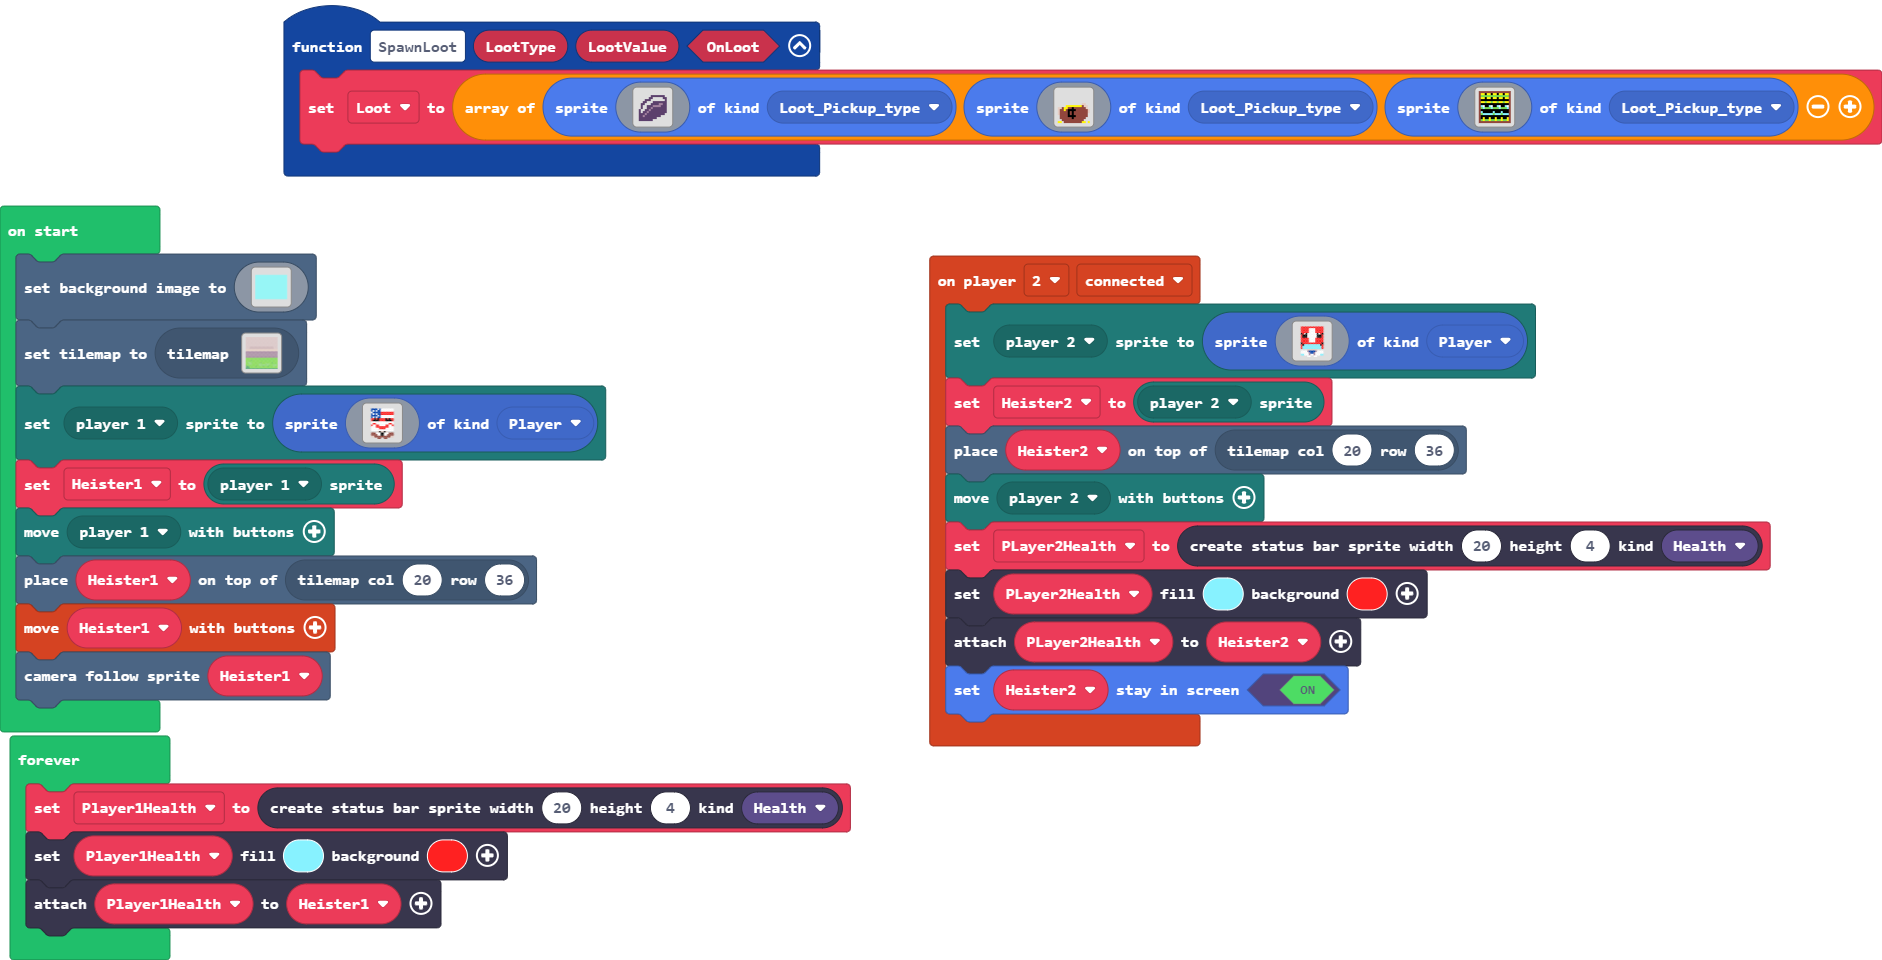
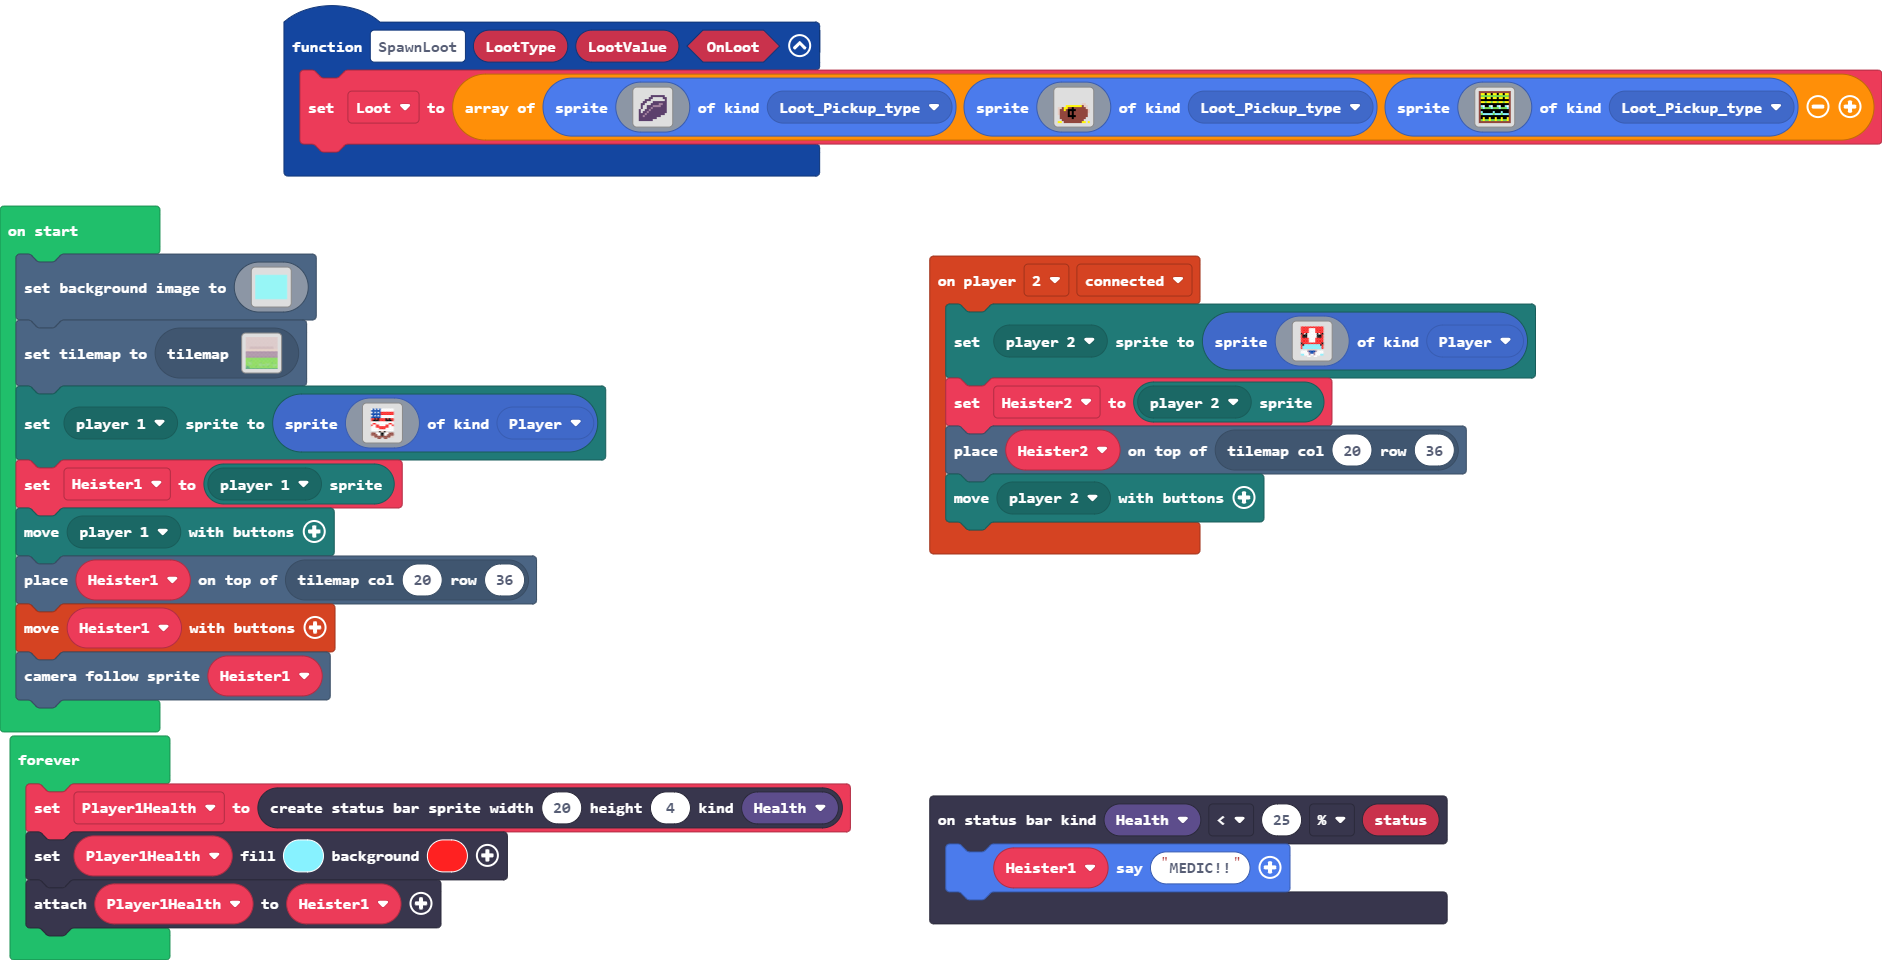
Update main.blocks, main.ts, images.g.jres, images.g.ts

Changed region(s): [[0.4931, 0.5312, 0.9554, 0.7812], [0.4931, 0.8125, 0.7705, 0.9688]]

diff --git a/main.ts b/main.ts
@@ -4,24 +4,23 @@ namespace SpriteKind {
 function SpawnLoot (LootType: string, LootValue: number, OnLoot: boolean) {
     Loot = [sprites.create(assets.image`Money_Bag`, SpriteKind.Loot_Pickup_type), sprites.create(assets.image`Bag_of_GOLD`, SpriteKind.Loot_Pickup_type), sprites.create(assets.image`Jewlery_Box`, SpriteKind.Loot_Pickup_type)]
 }
+statusbars.onStatusReached(StatusBarKind.Health, statusbars.StatusComparison.LT, statusbars.ComparisonType.Percentage, 25, function (status) {
+    Heister1.sayText("MEDIC!!")
+})
 controller.player2.onEvent(ControllerEvent.Connected, function () {
-    mp.setPlayerSprite(mp.playerSelector(mp.PlayerNumber.Two), sprites.create(assets.image`MEDIC`, SpriteKind.Player))
+    mp.setPlayerSprite(mp.playerSelector(mp.PlayerNumber.Two), sprites.create(assets.image`Luxembourg`, SpriteKind.Player))
     Heister2 = mp.getPlayerSprite(mp.playerSelector(mp.PlayerNumber.Two))
     tiles.placeOnTile(Heister2, tiles.getTileLocation(20, 36))
     mp.moveWithButtons(mp.playerSelector(mp.PlayerNumber.Two))
-    PLayer2Health = statusbars.create(20, 4, StatusBarKind.Health)
-    PLayer2Health.setColor(9, 2)
-    PLayer2Health.attachToSprite(Heister2)
-    Heister2.setStayInScreen(true)
 })
 let Player1Health: StatusBarSprite = null
-let PLayer2Health: StatusBarSprite = null
 let Heister2: Sprite = null
 let Loot: Sprite[] = []
+let Heister1: Sprite = null
 scene.setBackgroundImage(assets.image`sky`)
 tiles.setCurrentTilemap(tilemap`Prototype_bank_entrance`)
 mp.setPlayerSprite(mp.playerSelector(mp.PlayerNumber.One), sprites.create(assets.image`Austin`, SpriteKind.Player))
-let Heister1 = mp.getPlayerSprite(mp.playerSelector(mp.PlayerNumber.One))
+Heister1 = mp.getPlayerSprite(mp.playerSelector(mp.PlayerNumber.One))
 mp.moveWithButtons(mp.playerSelector(mp.PlayerNumber.One))
 tiles.placeOnTile(Heister1, tiles.getTileLocation(20, 36))
 controller.moveSprite(Heister1)

diff --git a/images.g.ts b/images.g.ts
@@ -22,29 +22,6 @@ namespace myImages {
 . . . . . 2 2 . . . . . . . . . 
 . . . . . . . 2 2 . . . . . . . 
 `;
-            case "image2":
-            case "Austin":return img`
-....................
-...88881811111111...
-...81818811111111...
-...18888822222222...
-...81818822222222...
-...88881811111111...
-...81818811111111...
-...22f2f2222f2f22...
-...2ffff2222ffff2...
-...11111111111111...
-...12211111111221...
-...21122111122112...
-...11122222222111...
-...11111222211111...
-...11111111111111...
-.......dfddfd.......
-...eee111ff111eee...
-...eeee11ff11eeee...
-...ddeeeeeeeeeedd...
-.......ee..ee.......
-`;
             case "image4":
             case "EscapeVan":return img`
 ..............................
@@ -295,6 +272,29 @@ e e e e e e e e e e e e e e e e
 . 2 1 2 2 2 2 2 2 1 2 . 
 . 2 1 2 1 2 2 1 2 1 2 . 
 . 2 b 2 1 1 2 1 2 b 2 . 
+`;
+            case "image2":
+            case "Austin":return img`
+....................
+...18181811111111...
+...88888811111111...
+...18181822222222...
+...88888822222222...
+...18181811111111...
+...88888811111111...
+...22f2f2222f2f22...
+...2ffff2222ffff2...
+...11111111111111...
+...12211111111221...
+...21122111122112...
+...11122222222111...
+...11111222211111...
+...11111111111111...
+.......dfddfd.......
+...eee111ff111eee...
+...eeee11ff11eeee...
+...ddeeeeeeeeeedd...
+.......ee..ee.......
 `;
         }
         return null;
